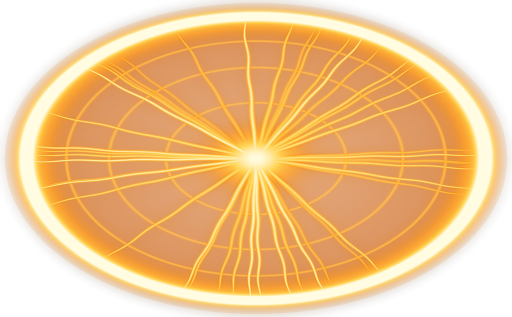
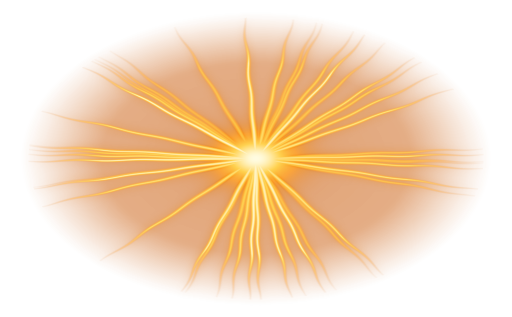
vfx-lab: Băng Sơn Quyền — bỏ viền tròn + vòng đồng tâm của đĩa chấn động; sóng chấn động và vết nứt lan dần từ nhân vật ra (mặt nạ mép mềm)
Claude-Session: https://claude.ai/code/session_014A94BHnyL4tu48AS77QbVM

diff --git a/src/vfx/skillFx.ts b/src/vfx/skillFx.ts
@@ -342,18 +342,30 @@ const phaThuong: Fx = (s, aw) => {
 };
 
 /** Băng Sơn Quyền — ảnh hiệu ứng (tools/art/fist_fx.py, dựng theo 2 ảnh mẫu); đối xứng quanh tâm nên dùng mọi hướng */
-export const FIST_TEX = { disc: 'vx_fist_disc', dust: 'vx_fist_dust', crack: 'vx_fist_crack', pillar: 'vx_fist_pillar' } as const;
+export const FIST_TEX = { disc: 'vx_fist_disc', dust: 'vx_fist_dust', crack: 'vx_fist_crack', pillar: 'vx_fist_pillar', mask: 'vx_fist_mask' } as const;
 const FIST_COL = 0xffb040;
 const DISC_R = 512 / 2 / 1.08;     // bán kính đĩa trong ảnh (px)
 const CRACK_R = 560 / 2 / 1.08;
+
+/** cho hiệu ứng mặt đất LAN TỪ NHÂN VẬT RA: phủ mặt nạ mép mềm, phóng to dần từ tâm (không có đường tròn cứng) */
+function spreadOut(k: Stage['kit'], im: Phaser.GameObjects.Image, grow: number): void {
+  const sc = k.scene;
+  if (!sc.textures.exists(FIST_TEX.mask) || sc.game.renderer.type !== Phaser.WEBGL) return;
+  const m = sc.make.image({ x: im.x, y: im.y, key: FIST_TEX.mask, add: false });
+  const full = (im.displayWidth / m.width) * 1.3;
+  m.setScale(full * 0.04);
+  im.setMask(m.createBitmapMask());
+  sc.tweens.add({ targets: m, scale: full, duration: grow, ease: 'Sine.easeOut' });
+  im.once('destroy', () => m.destroy());
+}
 
 /** chấn động ra xung quanh (mẫu 1): đĩa sáng có vân nứt bung ra trên mặt đất + bụi xòe + tia sáng dựng ở tâm */
 function fistShock(s: Stage, c: Pt, R: number): void {
   const k = s.kit, sc = k.scene;
   const add = (key: string, x: number, y: number) => sc.add.image(x, y, key).setBlendMode(Phaser.BlendModes.ADD);
-  const d = add(FIST_TEX.disc, c.x, c.y).setDepth(3).setScale((R / DISC_R) * 0.25);
-  sc.tweens.add({ targets: d, scale: R / DISC_R, duration: 150, ease: 'Cubic.easeOut' });
-  sc.tweens.add({ targets: d, alpha: 0, scale: (R / DISC_R) * 1.08, delay: 200, duration: 240, onComplete: () => d.destroy() });
+  const d = add(FIST_TEX.disc, c.x, c.y).setDepth(3).setScale(R / DISC_R);
+  spreadOut(k, d, 260);                                                   // sóng chấn động lan từ chân nhân vật ra
+  sc.tweens.add({ targets: d, alpha: 0, delay: 300, duration: 260, onComplete: () => d.destroy() });
   const du = add(FIST_TEX.dust, c.x, c.y).setOrigin(0.5, 1).setDepth(11).setScale(0.35 * (R / 110), 0.15 * (R / 110)).setAlpha(0.9);
   sc.tweens.add({ targets: du, scaleX: 0.7 * (R / 110), scaleY: 0.62 * (R / 110), alpha: 0, duration: 520, ease: 'Quad.easeOut', onComplete: () => du.destroy() });
   const pl = add(FIST_TEX.pillar, c.x, c.y + 4).setOrigin(0.5, 1).setDepth(12).setScale(0.35, 0.05);
@@ -369,8 +381,8 @@ function fistShock(s: Stage, c: Pt, R: number): void {
 /** đợt địa chấn nứt vỡ (mẫu 2, thức tỉnh): mạng vết nứt phát sáng loang rộng + cột sáng lửa bốc lên + đá vỡ bay */
 function fistQuake(s: Stage, c: Pt, R: number): void {
   const k = s.kit, sc = k.scene;
-  const cr = sc.add.image(c.x, c.y, FIST_TEX.crack).setBlendMode(Phaser.BlendModes.ADD).setDepth(2).setScale((R / CRACK_R) * 0.2);
-  sc.tweens.add({ targets: cr, scale: R / CRACK_R, duration: 280, ease: 'Cubic.easeOut' });
+  const cr = sc.add.image(c.x, c.y, FIST_TEX.crack).setBlendMode(Phaser.BlendModes.ADD).setDepth(2).setScale(R / CRACK_R);
+  spreadOut(k, cr, 420);                                                  // vết nứt lan dần từ chân nhân vật ra
   sc.tweens.add({ targets: cr, alpha: { from: 1, to: 0.55 }, duration: 160, delay: 280, yoyo: true, repeat: 1 });
   sc.tweens.add({ targets: cr, alpha: 0, delay: 900, duration: 500, onComplete: () => cr.destroy() });
   const pl = sc.add.image(c.x, c.y + 6, FIST_TEX.pillar).setBlendMode(Phaser.BlendModes.ADD).setOrigin(0.5, 1).setDepth(12).setScale(0.9, 0.1);

diff --git a/src/vfxlab/main.ts b/src/vfxlab/main.ts
@@ -33,7 +33,7 @@ class LabScene extends Phaser.Scene {
   preload(): void {
     this.load.spritesheet('hero', '/ui/hero_b_walk.png', { frameWidth: 52, frameHeight: 68 });
     this.load.image(QI_SWORD, '/vfx/qi_sword_light.png');
-    for (const [n, key] of Object.entries(FIST_TEX)) this.load.image(key, `/vfx/fist_${n}.png?v=1`);
+    for (const [n, key] of Object.entries(FIST_TEX)) this.load.image(key, `/vfx/fist_${n}.png?v=2`);
     for (const [n, key] of Object.entries(SPEAR_TEX)) this.load.image(key, `/vfx/spear_${n}.png?v=1`);
     for (const d of BA_DAO_DIRS) this.load.image(baDaoKey(d), `/vfx/ba_dao_slash_${d}.png?v=2`), this.load.image(baDaoWaveKey(d), `/vfx/ba_dao_wave_${d}.png?v=2`);
     // tư thế thi triển: hàng = hướng (s,sw,w,nw,n,ne,e,se), cột = tư thế 1, 2

diff --git a/tools/art/fist_fx.py b/tools/art/fist_fx.py
@@ -8,7 +8,7 @@ Mẫu 2 (thức tỉnh — thêm một đợt địa chấn nứt vỡ): MẠNG 
   sáng ở giữa, mờ dần ra ngoài; một cột sáng lửa vàng bốc lên; đá vỡ bay.
 Màu giữ như mẫu: trắng vàng → vàng → cam → nâu cam. Mọi hình đối xứng quanh tâm nên dùng chung mọi hướng.
 
-  python3 -I tools/art/fist_fx.py → public/vfx/fist_{disc,dust,crack,pillar}.png + tools/art/out/fist_fx_preview.png
+  python3 -I tools/art/fist_fx.py → public/vfx/fist_{disc,dust,crack,pillar,mask}.png + tools/art/out/fist_fx_preview.png
 """
 import math
 import os
@@ -63,8 +63,9 @@ def disc(w=512):
     h = int(w * K)
     r, th = ground(w, h)
     rng = np.random.default_rng(7)
-    rim = np.exp(-((r - 0.97) / 0.035) ** 2) + 0.5 * np.exp(-((r - 0.95) / 0.09) ** 2)
-    fill = np.clip(1 - r, 0, 1) * 0 + (r < 1) * (0.32 + 0.18 * r)
+    rim = np.zeros_like(r)                                   # bỏ viền tròn ngoài (theo góp ý)
+    edge = np.clip((1 - r) / 0.35, 0, 1) ** 1.2              # mép ngoài mờ dần, không thành đường tròn
+    fill = edge * (0.30 + 0.1 * (1 - r))
     # vết nứt thẳng tỏa từ tâm: nhiều tia góc ngẫu nhiên, mảnh dần ra ngoài, hơi gãy khúc
     cracks = np.zeros_like(r)
     for ang in rng.uniform(0, 2 * math.pi, 46):
@@ -72,11 +73,12 @@ def disc(w=512):
         d = np.abs(np.sin(th - ang - jag)) * np.maximum(r, 0.05)
         width = 0.004 + 0.010 * (1 - r)
         cracks = np.maximum(cracks, np.exp(-(d / width) ** 2) * (np.cos(th - ang) > 0) * (r < 0.96) * rng.uniform(0.5, 1))
-    rings = sum(0.5 * np.exp(-((r - rr) / 0.008) ** 2) for rr in (0.38, 0.62, 0.8)) * (r < 1)
+    rings = np.zeros_like(r)                                 # bỏ các vòng tròn đồng tâm
+    cracks = cracks * edge
     hot = np.exp(-(r / 0.16) ** 2)
     inten = np.clip(0.35 + 0.65 * np.maximum.reduce([rim, cracks * 0.95, rings, hot]), 0, 1)
-    alpha = np.clip(fill * (r < 1) + rim + cracks * 0.8 + rings * 0.6 + hot, 0, 1) * (r < 1.06)
-    return to_img(inten, alpha, w, h, glow=6)
+    alpha = np.clip(fill + cracks * 0.85 + hot, 0, 1) * (r < 1.0)
+    return to_img(inten, alpha, w, h, glow=4)
 
 
 def dust(w=360, h=220):
@@ -139,14 +141,22 @@ def pillar(w=140, h=300):
     return to_img(inten, alpha, w, h, glow=8)
 
 
+def mask(w=256):
+    """mặt nạ lan ra: đĩa (nhìn chéo) đặc ở giữa, MÉP MỀM ~30% → phóng to dần để lộ hiệu ứng từ tâm ra ngoài"""
+    h = int(w * K)
+    r, _ = ground(w, h)
+    a = np.clip((1.0 - r) / 0.3, 0, 1) ** 1.5
+    return to_img(np.ones_like(r), a, w, h)
+
+
 def main():
     os.makedirs(OUT, exist_ok=True)
-    imgs = {'disc': disc(), 'dust': dust(), 'crack': crack(), 'pillar': pillar()}
+    imgs = {'disc': disc(), 'dust': dust(), 'crack': crack(), 'pillar': pillar(), 'mask': mask()}
     for k, im in imgs.items():
         im.save(os.path.join(ROOT, 'public', 'vfx', f'fist_{k}.png'))
     pv = Image.new('RGBA', (1600, 380), (20, 18, 24, 255))
     x = 10
-    for k in ('disc', 'dust', 'crack', 'pillar'):
+    for k in ('disc', 'dust', 'crack', 'pillar'):  # (mask không cần xem)
         pv.alpha_composite(imgs[k], (x, 10))
         x += imgs[k].width + 10
     pv.save(os.path.join(OUT, 'fist_fx_preview.png'))
